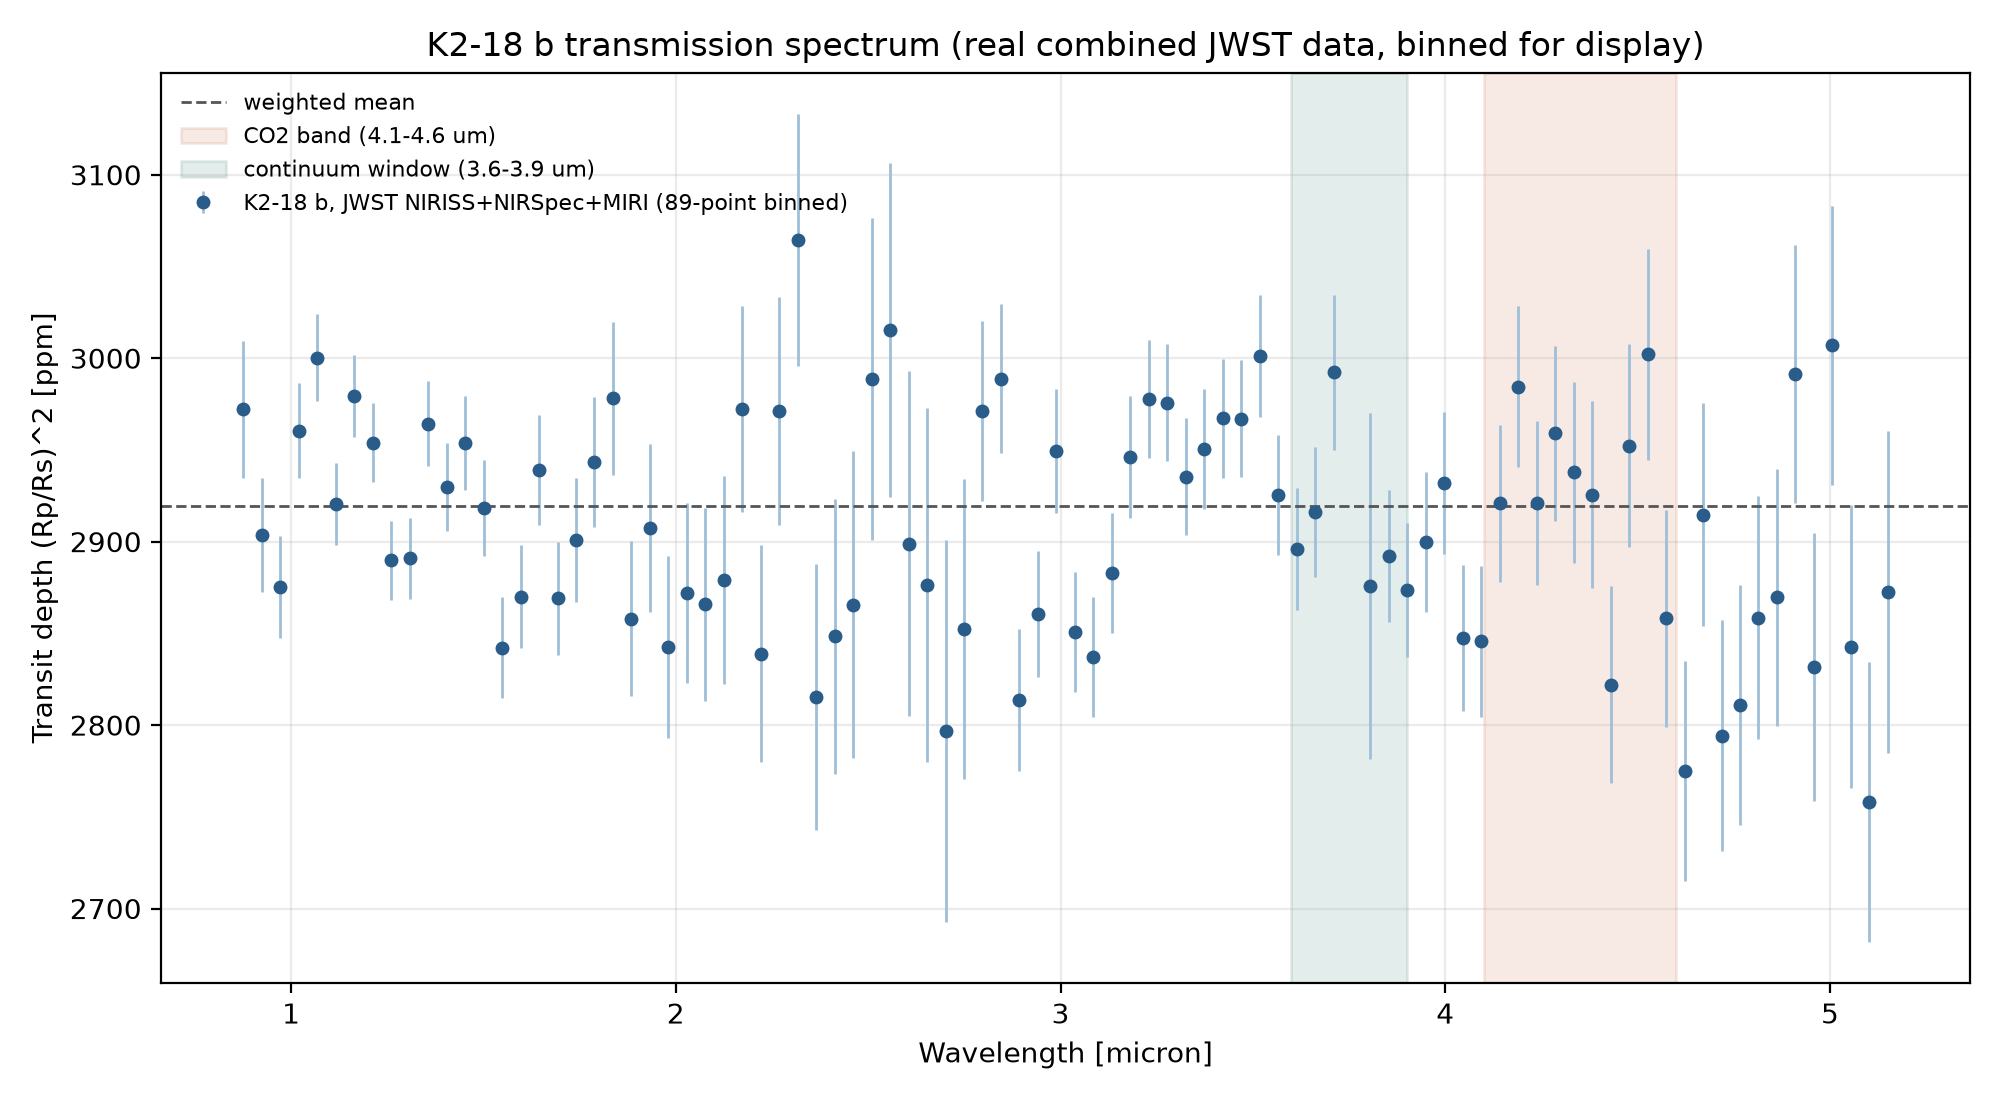
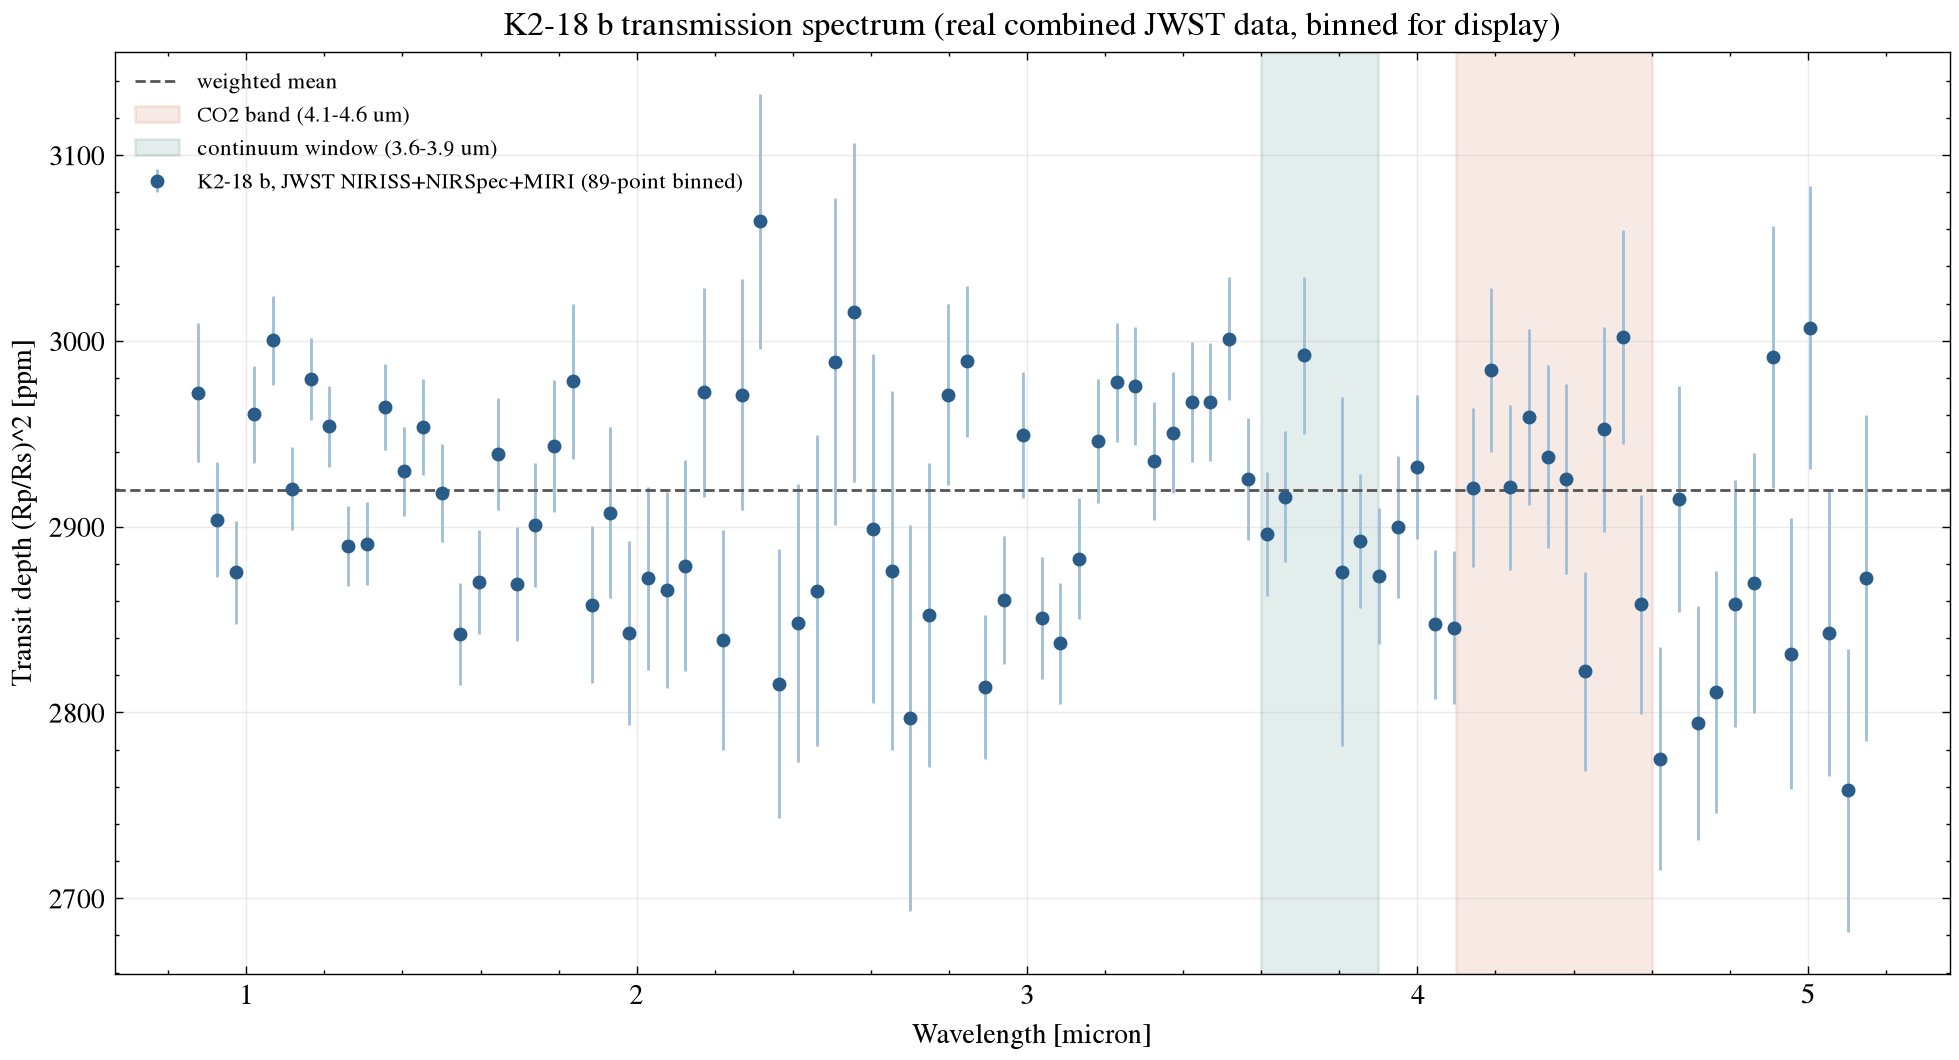
Apply scienceplots paper-style figure formatting
Uses the scienceplots 'science' + 'no-latex' matplotlib style for a
cleaner, publication-style look (serif-leaning fonts, inward ticks, minor
tick marks) without a LaTeX dependency. Regenerates the figure with
identical underlying data/statistics -- only the visual styling changed.

diff --git a/scripts/analyze_spectrum.py b/scripts/analyze_spectrum.py
@@ -25,7 +25,10 @@ import csv
 from pathlib import Path
 
 import matplotlib.pyplot as plt
+import scienceplots  # noqa: F401 (registers 'science' style)
 import numpy as np
+
+plt.style.use(["science", "no-latex"])
 
 DATA_DIR = Path(__file__).resolve().parents[1] / "data"
 FIG_DIR = Path(__file__).resolve().parents[1] / "figures"
